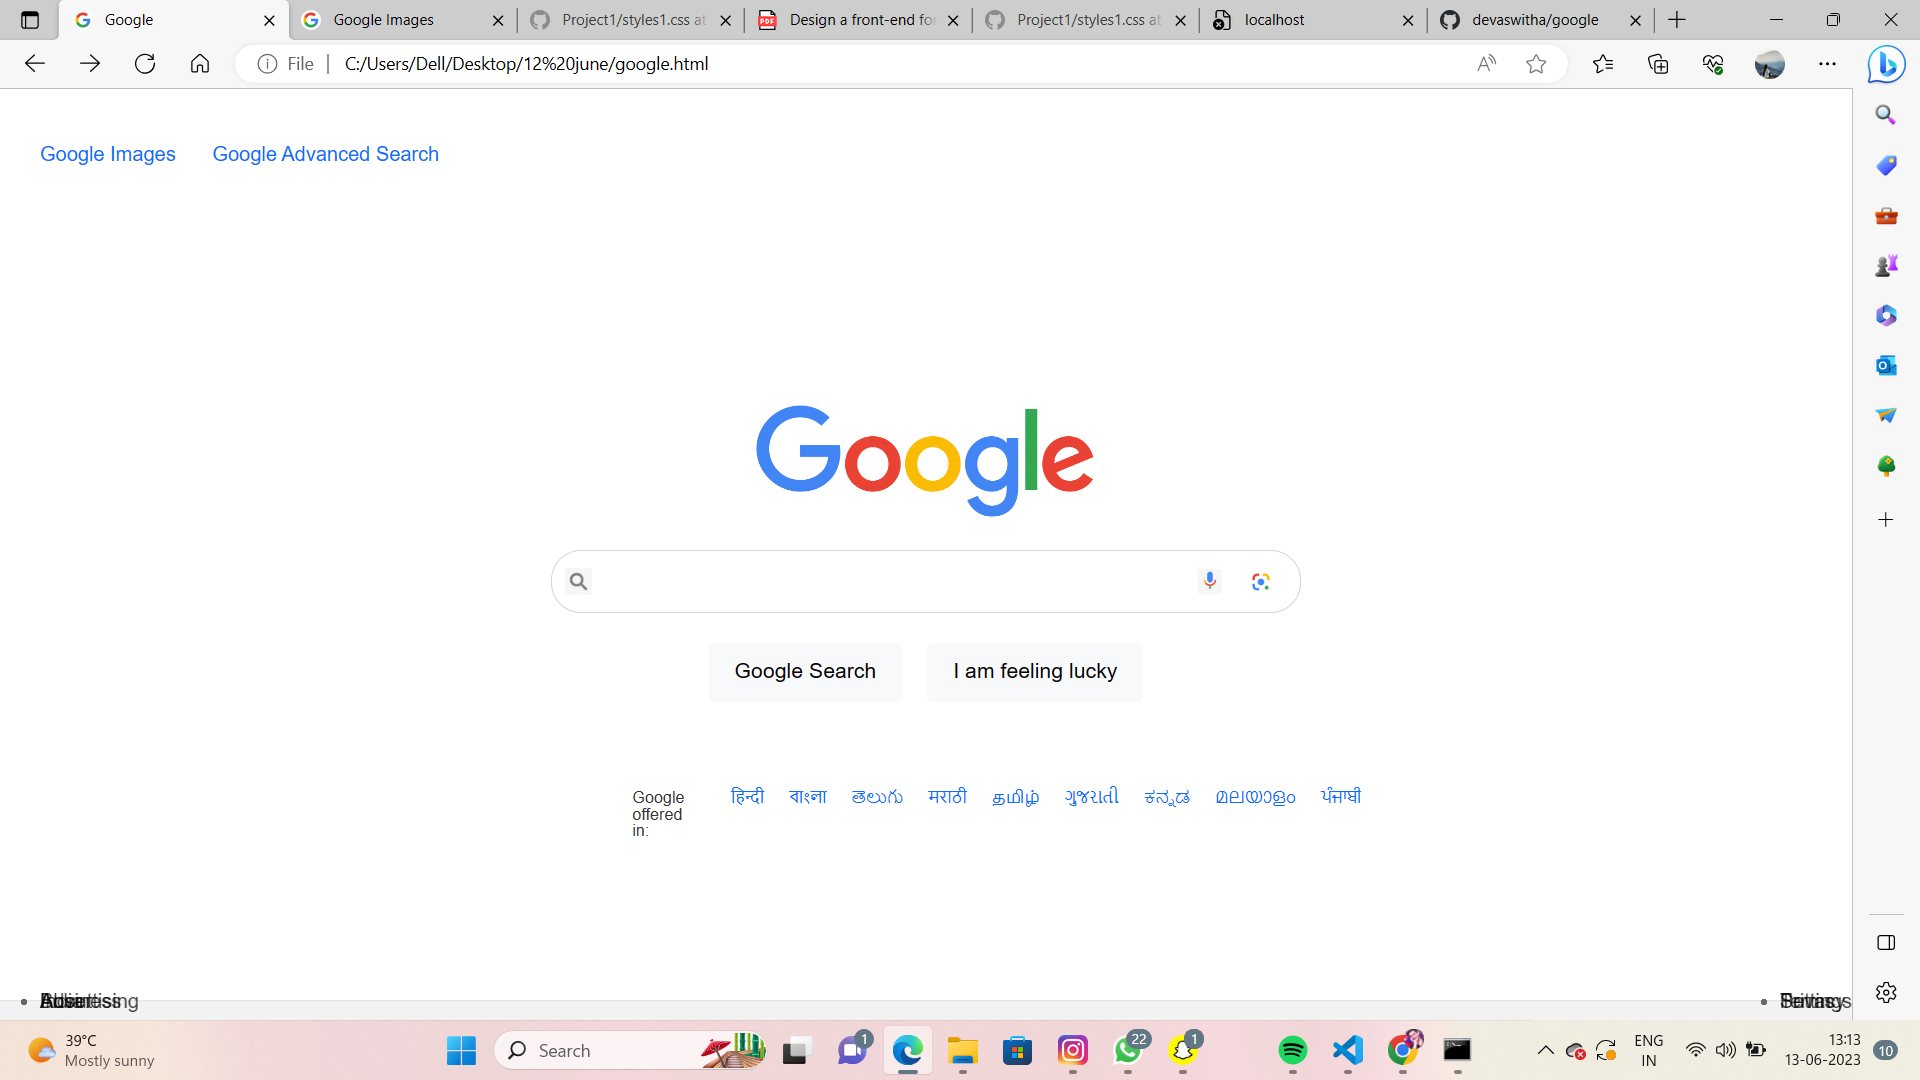
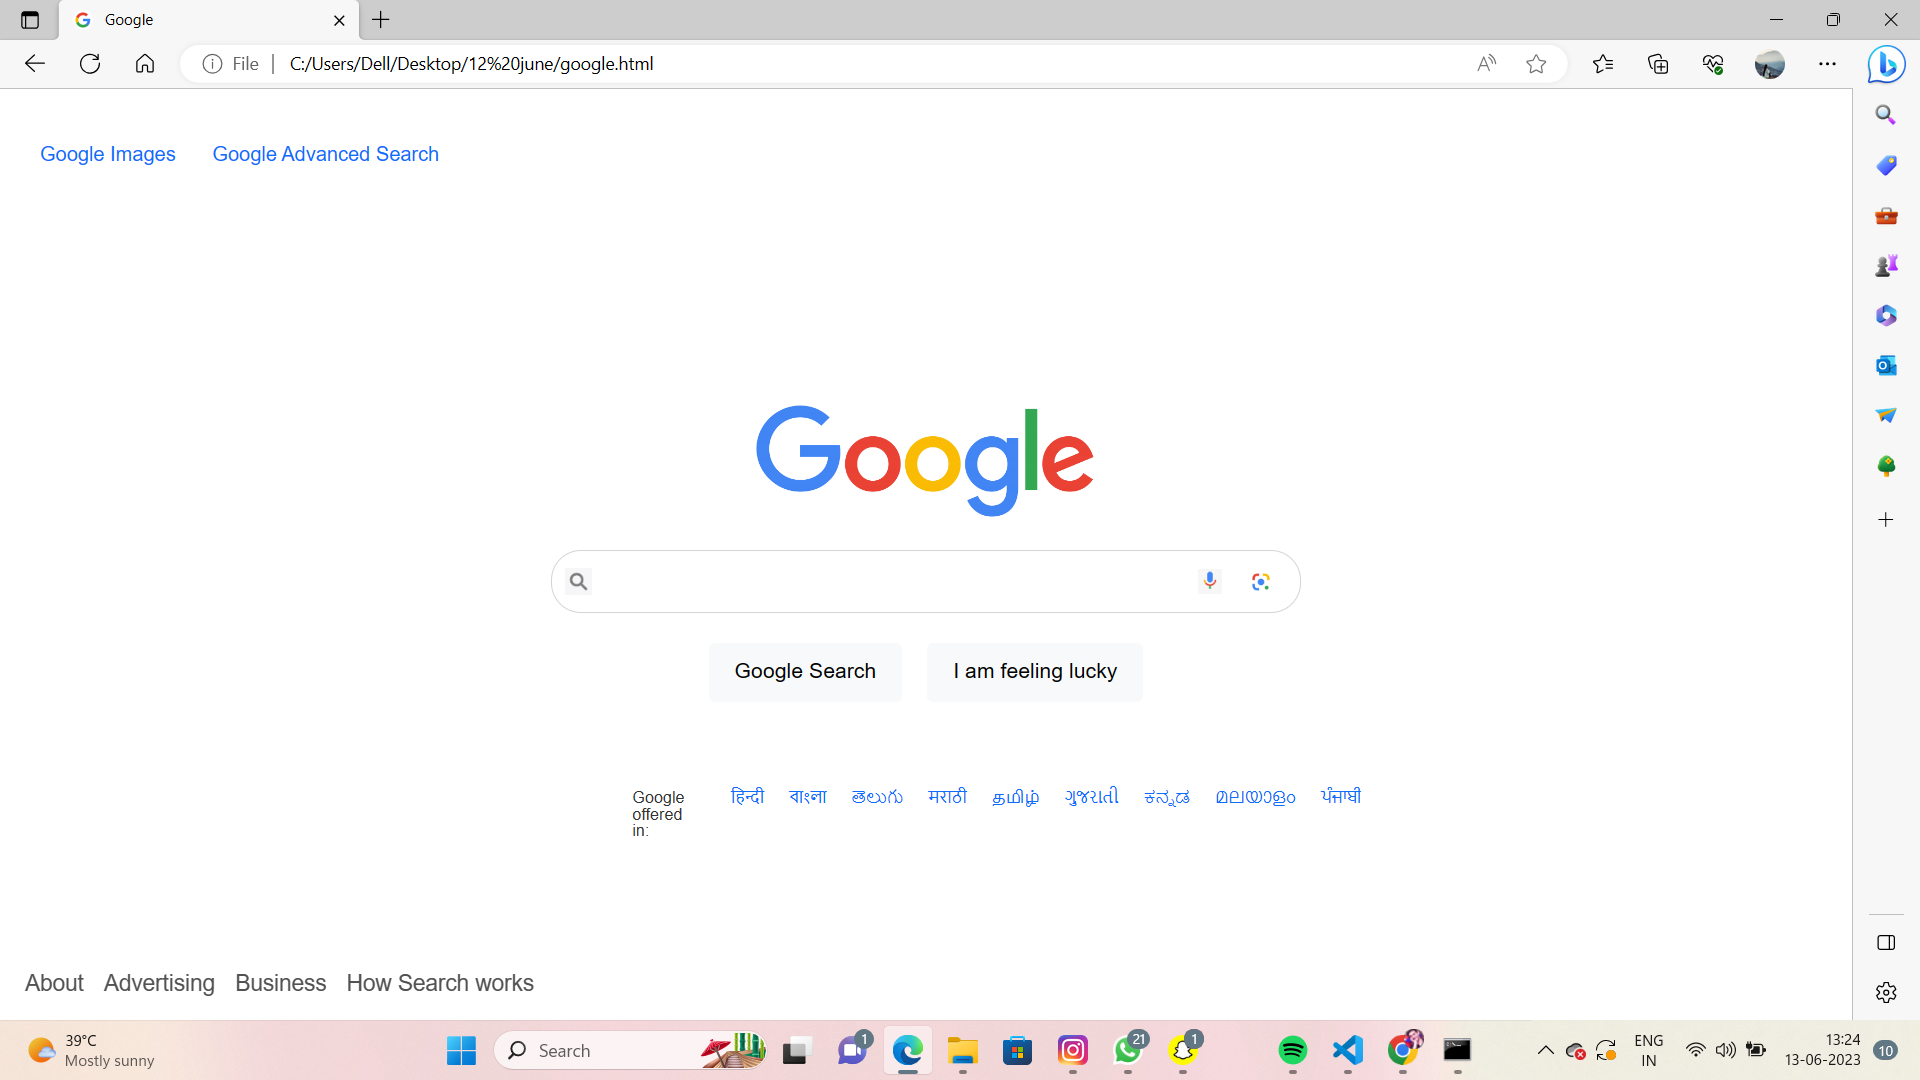
Google

diff --git a/google.html b/google.html
@@ -84,46 +84,26 @@
         <li><a href="#">ਪੰਜਾਬੀ</a></li>
     </ul>
 </div>
-<footer>
-  <ul class="l_ftr">
-      <li>
-          <a href="https://en.wikipedia.org/wiki/India">India</a>
-      </li>
-      <li>
-          <a href="https://about.google/?utm_source=google-IN&utm_medium=referral&utm_campaign=hp-footer&fg=1">About</a>
-      </li>
-      <li>
-          <a href="https://ads.google.com/intl/en_in/home/?subid=ww-ww-et-g-awa-a-g_hpafoot1_1!o2&utm_source=google.com&utm_medium=referral&utm_campaign=google_hpafooter&fg=1">Advertising</a>
-      </li>
-      <li>
-          <a href="https://www.google.com/intl/en_in/business/">Business</a></li>
-  </ul>
-  <ul class="r_ftr">
-      <li>
-          <a href="https://policies.google.com/privacy?hl=en-IN&fg=1">Privacy</a>
-      </li>
-      <li>
-          <a href="https://policies.google.com/terms?hl=en-IN&fg=1">Terms</a>
-      </li>
-      <li>
-          <a href="https://support.google.com/accounts/answer/3118621?hl=en">Settings</a>
-      </li>
-  </ul>
-</footer>
-
-<script>
-  document.getElementById("searchForm").addEventListener("submit", function(event) {
-      event.preventDefault(); 
-      var searchField = document.getElementById("searchfield").value;
-      if (searchField.trim() !== "") {
-          var searchQuery = encodeURIComponent(searchField);
-          var searchUrl = "https://www.google.com/search?q=" + searchQuery;
-          window.location.href = searchUrl; 
-      }
-  });
-</script>
-
-</body>
+<div class="position-fixed bottom-0 start-0">
+  <nav id="navid" class="navbar navbar-expand bg-body-tertiary">
+    <div class="container-fluid">
+      <ul id="uid" class="navbar-nav ms-auto">
+        <li class="nav-item">
+          <a style="font-size: 18px; color: rgb(83, 82, 82)" class="nav-link active" aria-current="page" href="#">About</a>
+        </li>
+        <li class="nav-item">
+          <a style="font-size: 18px; color: rgb(83, 82, 82)" class="nav-link active" aria-current="page" href="#">Advertising</a>
+        </li>
+        <li class="nav-item">
+          <a style="font-size: 18px; color: rgb(83, 82, 82)" class="nav-link active" aria-current="page" href="#">Business</a>
+          
+        </li>
+        <li class="nav-item">
+          <a style="font-size: 18px; color: rgb(83, 82, 82)" class="nav-link active" aria-current="page" href="#">How Search works</a>
+        </li>
+      </ul>
+    </div>  
+  </nav>
+</div>
 </body>
 </html>
-

diff --git a/googleimg.html b/googleimg.html
@@ -69,33 +69,26 @@
     </ul>
 </div>
 
-<footer>
-        <ul class="l_ftr">
-            <li>
-                <a href="https://en.wikipedia.org/wiki/India">India</a>
+    <div class="position-fixed bottom-0 start-0">
+      <nav id="navid" class="navbar navbar-expand bg-body-tertiary">
+        <div class="container-fluid">
+          <ul id="uid" class="navbar-nav ms-auto">
+            <li class="nav-item">
+              <a style="font-size: 18px; color: rgb(83, 82, 82)" class="nav-link active" aria-current="page" href="#">About</a>
             </li>
-            <li>
-                <a href="https://about.google/?utm_source=google-IN&utm_medium=referral&utm_campaign=hp-footer&fg=1">About</a>
+            <li class="nav-item">
+              <a style="font-size: 18px; color: rgb(83, 82, 82)" class="nav-link active" aria-current="page" href="#">Advertising</a>
             </li>
-            <li>
-                <a href="https://ads.google.com/intl/en_in/home/?subid=ww-ww-et-g-awa-a-g_hpafoot1_1!o2&utm_source=google.com&utm_medium=referral&utm_campaign=google_hpafooter&fg=1">Advertising</a>
+            <li class="nav-item">
+              <a style="font-size: 18px; color: rgb(83, 82, 82)" class="nav-link active" aria-current="page" href="#">Business</a>
+              
             </li>
-            <li>
-                <a href="https://www.google.com/intl/en_in/business/">Business</a></li>
-        </ul>
-        <ul class="r_ftr">
-            <li>
-                <a href="https://policies.google.com/privacy?hl=en-IN&fg=1">Privacy</a>
+            <li class="nav-item">
+              <a style="font-size: 18px; color: rgb(83, 82, 82)" class="nav-link active" aria-current="page" href="#">How Search works</a>
             </li>
-            <li>
-                <a href="https://policies.google.com/terms?hl=en-IN&fg=1">Terms</a>
-            </li>
-            <li>
-                <a href="https://support.google.com/accounts/answer/3118621?hl=en">Settings</a>
-            </li>
-        </ul>
-    </footer>
-    
-    </body>
-</body>
+          </ul>
+        </div>  
+      </nav>
+    </div>
+  </body>
 </html>

diff --git a/style1.css b/style1.css
@@ -131,31 +131,24 @@ header {
 }
 
 
-.ftr{
-    float: left;
-   }
-   .l_ftr {  
-    float: left;  
-   }  
-   .r_ftr {  
-    float: right;  
-   }  
-   footer {  
-    line-height: 0px;  
-    
-    position: absolute;  
-    left: 0;  
-    right: 0;  
-    bottom: 0;  
-    color: #666666;  
-    background-color: #f2f2f2;  
-    border-top: solid 1px #e4e4e4;  
-   }  
-   footer a {  
-    text-decoration: none;  
-    color: #000;  
-    opacity: 0.75;  
-   }  
-   footer a:hover {  
-    text-decoration-line: underline;  
-   } 
+footer {
+  background-color: #F2F2F2;
+  padding: 10px;
+  text-align: center;
+  font-size: 14px;
+}
+
+footer ul {
+  list-style: none;
+  margin-top: 10px;
+}
+
+footer ul li {
+  display: inline-block;
+  margin-right: 10px;
+}
+
+footer ul li a {
+  text-decoration: none;
+  color: #333;
+}
